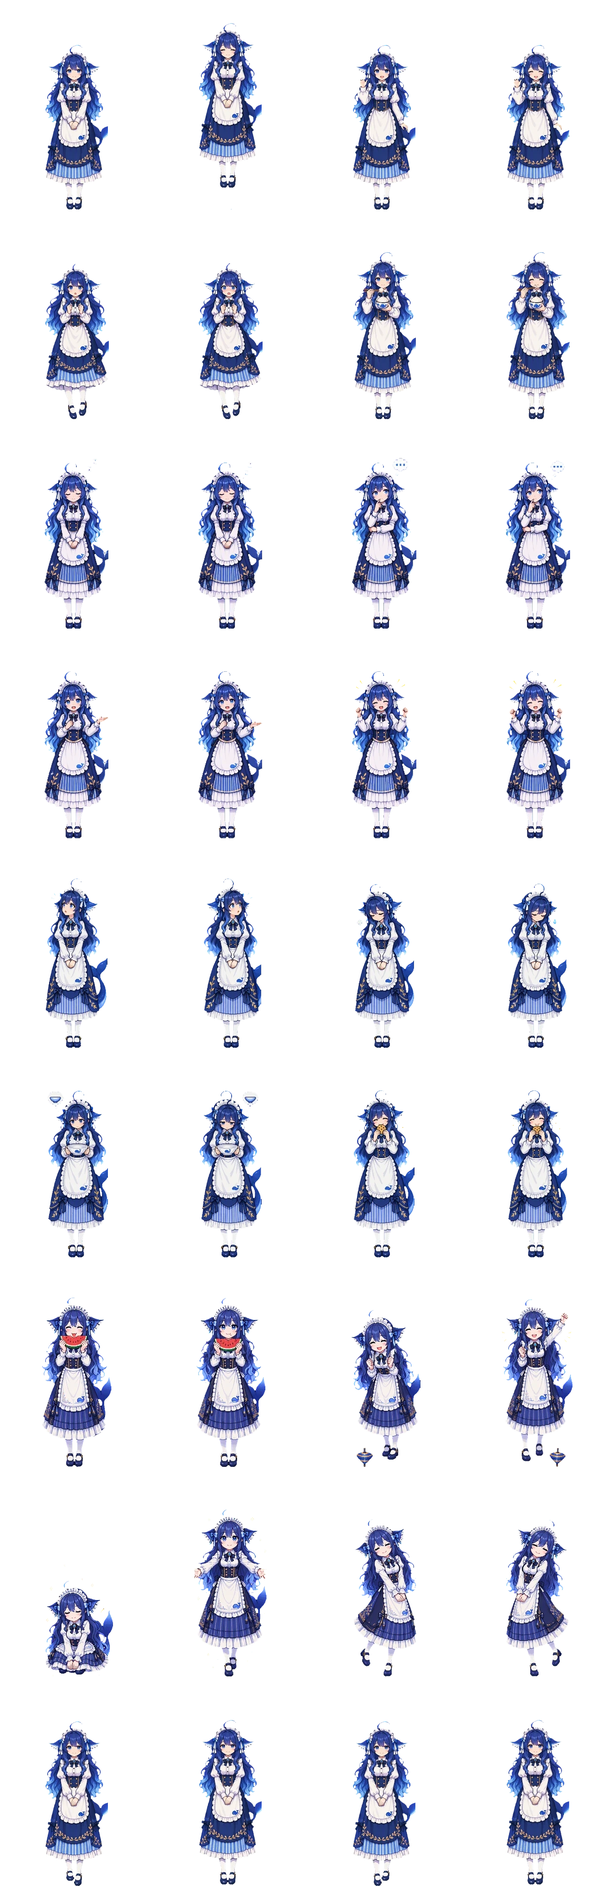
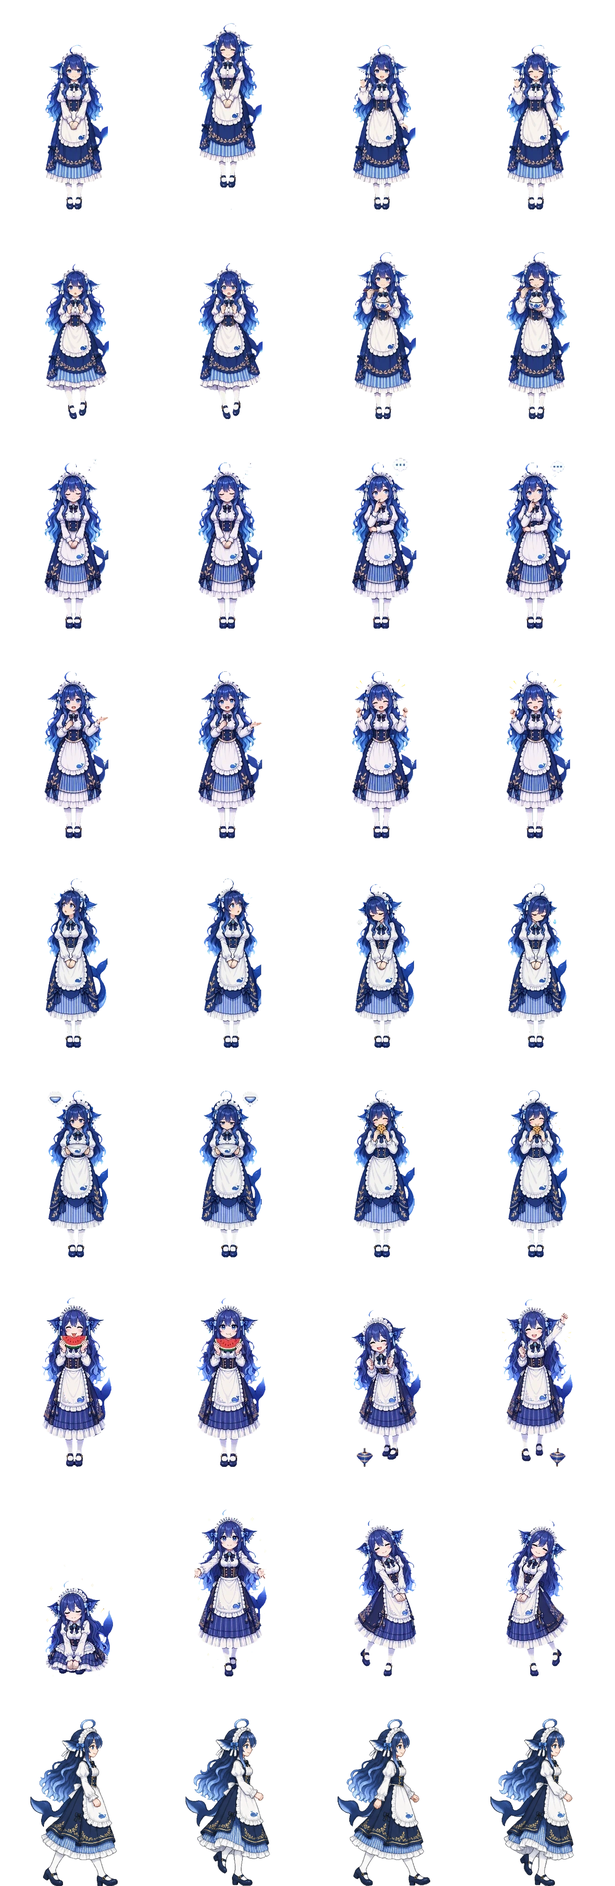
✨ feat(art): she walks in profile, the way she moves across the screen
The step cycle made from the idle art faced the viewer while the window slid
left or right. The HD packs now take a side-view walk cycle drawn for it
(model_chan_prompts.py --walk, sources in art/model-chan/walk/), facing right
and mirrored when she walks left; add_walk_frames.py --from puts the frames in
the walk row with her body centred and feet on the floor. 5 fps and a walk
speed of 110 px/s make one step about the distance the window moves, so her
feet do not skate. The classic packs keep the step in place (different art).

diff --git a/e2e/run.js b/e2e/run.js
@@ -2007,12 +2007,12 @@ async function rosterOne(ch) {
       let steps = '';
       if (ws.video) assert.equal(await clip(), 'walk');
       else {
-        // her own step cycle (scripts/art/add_walk_frames.py), not the idle art sliding along
+        // her own walk cycle (side view on the HD packs, scripts/art/add_walk_frames.py), not the idle art sliding along
         assert.equal(ws.action, 'walk');
         assert.equal(ws.exact, true);
         assert.equal(await page.textContent('#char-fx'), '');
         const seen = new Set();
-        for (let i = 0; i < 8; i++) { seen.add(await page.$eval('#pet-look canvas', (c) => c.dataset.frame.split('#')[1])); await page.waitForTimeout(70); }
+        for (let i = 0; i < 10; i++) { seen.add(await page.$eval('#pet-look canvas', (c) => c.dataset.frame.split('#')[1])); await page.waitForTimeout(100); }
         assert.ok(seen.size >= 3, `the walk frames play: ${[...seen]}`);
         steps = `, frames ${[...seen].sort().join(' ')}`;
       }
@@ -2025,6 +2025,26 @@ async function rosterOne(ch) {
       assert.equal(after.x, w.to);
       assert.ok(Math.abs(after.x - before.x) >= 60 && Math.abs(after.x - before.x) <= 240 * 2);
       return `${st}; window x ${before.x} → ${after.x} (facing ${w.facing})${steps}`;
+    }, page);
+    await step(S, 'N1b walking left: the same side view, mirrored, and the window moves left', async () => {
+      await idle();
+      await leave();
+      await page.evaluate(() => window.petFx.face('left'));
+      const before = await mainBounds();
+      const walking = page.evaluate(() => window.petFx.walk());
+      await page.waitForFunction(() => window.petFx.state().state === 'walk', null, { timeout: 3000 });
+      await page.waitForTimeout(500);
+      const ws = await fxState();
+      assert.equal(ws.facing, 'left');
+      const scale = await page.$eval(ws.video ? '#pet-body video' : '#pet-look canvas', (el) => getComputedStyle(el).scale);
+      assert.equal(scale, '-1 1', 'mirrored');
+      await page.screenshot({ path: path.join(OUT, `${S}-walk-left.png`) });
+      await walking;
+      const after = await mainBounds();
+      const w = (await page.evaluate(() => window.petFx.stats())).lastWalk;
+      assert.equal(w.facing, 'left');
+      assert.ok(after.x < before.x, `moved left: ${before.x} → ${after.x}`);
+      return `facing left, scale ${scale}${ws.video ? '' : `, action=${ws.action}`}; window x ${before.x} → ${after.x}`;
     }, page);
     await step(S, 'N2 touch: a long press on her opens the menu', async () => {
       await idle();

diff --git a/test/packs.test.js b/test/packs.test.js
@@ -40,10 +40,10 @@ test('the model-chan pixel packs are schema 2 and animate every state of the sha
     const px = packs.get(id);
     assert.equal(px.schema, 2);
     assert.equal(px.kind, 'sprites');
-    // `walk` included: a 4-frame step cycle made from her idle art (scripts/art/add_walk_frames.py)
+    // `walk` included: a 4-frame side-view walk cycle facing right (art/model-chan/walk, scripts/art/add_walk_frames.py --from)
     assert.deepEqual(Object.keys(px.actions).sort(), [...STATES].sort(), `${id} animates every state`);
     for (const st of STATES) assert.equal(resolveAction(st, (n) => !!px.actions[n]).exact, true, `${id}/${st}`);
-    assert.deepEqual(px.actions.walk, { row: 8, col: 0, frames: 4, fps: 8 }, 'a step cycle, not the idle art sliding along');
+    assert.deepEqual(px.actions.walk, { row: 8, col: 0, frames: 4, fps: 5 }, 'a side-view walk cycle, not the idle art sliding along');
     assert.deepEqual(px.frame, { width: 332, height: 452 }, 'HD frames');
     assert.equal(px.pixelated, false, 'drawn smoothed, not as blocks');
     assert.match(px.outfits.daily, /\.webp$/);

diff --git a/src/core/fx.js b/src/core/fx.js
@@ -99,7 +99,7 @@
   // ---- roaming (dsh-pet motion.ts planMove, walk.ts) ------------------------------------------
   // A walk goes 60–240 px (at 100% size) the way the pet faces, turning round when that way runs off
   // the screen; the window moves at a steady pace with a short still start and end (lead / tail).
-  const WALK = { minDist: 60, maxDist: 240, margin: 8, speed: 70, leadMs: 400, tailMs: 400 };
+  const WALK = { minDist: 60, maxDist: 240, margin: 8, speed: 110, leadMs: 400, tailMs: 400 };
   function planWalk({ x, w, area, facing = 'right', scale = 1 }, rnd = Math.random) {
     const dist = Math.round((WALK.minDist + rnd() * (WALK.maxDist - WALK.minDist)) * Math.max(0.5, scale));
     const lo = area.x + WALK.margin;

diff --git a/scripts/art/add_walk_frames.py b/scripts/art/add_walk_frames.py
@@ -1,16 +1,26 @@
-# Give a model-chan sprite pack a `walk` action: a 4-frame step cycle made from its idle art, so walking
-# is more than the window sliding the standing pose along. The legs under the hem are found in the first
+# Give a model-chan sprite pack a `walk` action, so walking is more than the window sliding the standing pose
+# along. She walks left and right across the screen, so the HD packs take a side-view walk cycle drawn for it
+# (--from, below); without one, a 4-frame step cycle in place is made from the idle art (the classic packs).
+#
+# --from <fit sheet> [--take N]: a model_chan_prompts.py --walk sheet put through slice_sheet.py --shared-box and
+# fit_cells.py --rows 2 (4 frames per row, facing right; take N = row N, default 0). Each frame stands on the
+# cell's bottom with her head and body (the top 40 % of the figure) centred, so the body glides and only the legs,
+# hair and skirt move; facing left mirrors it.
+#
+# Without --from: The legs under the hem are found in the first
 # idle frame (the transparent gap between them), and each frame lifts one leg (squashed up under the skirt,
 # so the foot leaves the ground) or brings both down with the whole figure a little higher:
 #   left foot up · both down (up a bit) · right foot up · both down (up a bit)
 # The frames go in a new row under the sheet (every outfit sheet of the pack) and pack.json gets
 # "walk": {row, col 0, frames 4, fps 8}. Running it again rebuilds that row.
 # usage: add_walk_frames.py <pack dir> [<pack dir> ...]
+#        add_walk_frames.py --from <fit sheet> [--take N] <pack dir>
 import json, os, sys
 import numpy as np
 from PIL import Image
 
 FPS = 8
+SIDE_FPS = 5  # one step (2 frames, 0.4 s) is about 44 px on screen at 100 %, the window's pace (fx.js WALK.speed 110), so the feet do not skate
 
 
 def find_legs(a):
@@ -87,7 +97,24 @@ def walk_frames(frame, smooth):
     return [compose(True, False, 0), compose(False, False, bob), compose(False, True, 0), compose(False, False, bob)], (hem, bottom, lift)
 
 
-def add_walk(pack_dir):
+def side_frames(path, take, FW, FH):
+    sheet = Image.open(path).convert('RGBA')
+    cw, ch = sheet.width // 4, sheet.height // 2
+    out = []
+    for c in range(4):
+        f = np.array(sheet.crop((c * cw, take * ch, (c + 1) * cw, (take + 1) * ch)))
+        a = f[:, :, 3] > 40
+        ys = np.where(a.any(axis=1))[0]
+        top, bottom = int(ys[0]), int(ys[-1])
+        upper = a[top:top + int((bottom - top) * 0.4)]
+        cx = np.where(upper)[1].mean()
+        frame = Image.new('RGBA', (FW, FH), (0, 0, 0, 0))
+        frame.paste(Image.fromarray(f), (int(round(FW / 2 - cx)), FH - 1 - bottom))
+        out.append(frame)
+    return out
+
+
+def add_walk(pack_dir, side=None, take=0):
     pf = os.path.join(pack_dir, 'pack.json')
     pack = json.load(open(pf))
     FW, FH = pack['frame']['width'], pack['frame']['height']
@@ -98,18 +125,27 @@ def add_walk(pack_dir):
         sheet = Image.open(path).convert('RGBA')
         rows = old['row'] if old else sheet.height // FH
         frame = sheet.crop((idle['col'] * FW, idle['row'] * FH, (idle['col'] + 1) * FW, (idle['row'] + 1) * FH))
-        frames, info = walk_frames(frame, not pack.get('pixelated'))
+        if side:
+            frames, info = side_frames(side, take, FW, FH), ('side view', os.path.basename(side), f'take {take}')
+        else:
+            frames, info = walk_frames(frame, not pack.get('pixelated'))
         out = Image.new('RGBA', (max(sheet.width, FW * 4), FH * (rows + 1)), (0, 0, 0, 0))
         out.paste(sheet.crop((0, 0, sheet.width, FH * rows)), (0, 0))
         for i, f in enumerate(frames): out.paste(f, (i * FW, rows * FH))
         if path.endswith('.webp'): out.save(path, 'WEBP', quality=92, method=6, alpha_quality=100)
         else: out.save(path, optimize=True)
-        print(f'{path}: walk row {rows}, legs rows {info[0]}-{info[1]}, lift {info[2]} px')
-    pack['actions']['walk'] = {'row': rows, 'col': 0, 'frames': 4, 'fps': FPS}
+        print(f'{path}: walk row {rows}, ' + (' '.join(info) if side else f'legs rows {info[0]}-{info[1]}, lift {info[2]} px'))
+    pack['actions']['walk'] = {'row': rows, 'col': 0, 'frames': 4, 'fps': SIDE_FPS if side else FPS}
     with open(pf, 'w') as f:
         json.dump(pack, f, ensure_ascii=False, indent=2); f.write('\n')
 
 
 if __name__ == '__main__':
-    if len(sys.argv) < 2: raise SystemExit(__doc__ or 'usage: add_walk_frames.py <pack dir> [...]')
-    for d in sys.argv[1:]: add_walk(d)
+    argv = sys.argv[1:]
+    side, take = None, 0
+    if '--from' in argv:
+        i = argv.index('--from'); side = argv[i + 1]; del argv[i:i + 2]
+    if '--take' in argv:
+        i = argv.index('--take'); take = int(argv[i + 1]); del argv[i:i + 2]
+    if not argv: raise SystemExit('usage: add_walk_frames.py <pack dir> [...] | add_walk_frames.py --from <fit sheet> [--take N] <pack dir>')
+    for d in argv: add_walk(d, side, take)

diff --git a/scripts/art/model_chan_prompts.py b/scripts/art/model_chan_prompts.py
@@ -55,8 +55,29 @@ EXTRA_ROWS = [
     "Row 4: making her entrance, rising from a crouch inside a burst of sparkles (frame 1 crouching, frame 2 standing with arms open); then a light swaying happy dance, leaning left then right (2 frames).",
 ]
 
+# --walk: one 4 x 2 sheet per character, <id>_walk: a side-view walk cycle facing right (she walks left and
+#   right across the screen; facing left mirrors it), 4 frames per row, the row drawn twice so the better take
+#   can be picked. add_walk_frames.py --from puts the 4 frames in the pack's walk row.
+WALK_ROWS = [
+    "Row 1: a side-view walk cycle in 4 frames, walking to the right: frame 1 left foot forward with the heel touching the ground, frame 2 passing pose with the right leg lifted under the skirt, "
+    "frame 3 right foot forward, frame 4 passing pose with the left leg lifted; arms swinging opposite to the legs, skirt and hair swaying with each step, body and head in profile looking to the right.",
+    "Row 2: the same 4-frame side-view walk cycle to the right again (same order, same size and position).",
+]
+SIDE = ("seen from the side in profile, facing and walking toward the RIGHT edge of the picture.")
+WALK_BG = ("IMPORTANT background: every cell and all the space around them is ONE perfectly flat solid pure {name} ({hex}) colour, "
+           "the same flat {name} everywhere: no gradient, no dark backdrop, no glow, no vignette, no floor, no shadows, no grid lines, no text, no labels.")
+
 GRID = "A grid of exactly 4 columns and 4 rows (16 cells)"
 HALF_GRID = "A grid of exactly 4 columns and 2 rows (8 cells), each cell a tall portrait-shaped box"
+
+def walk_jobs():
+    out = []
+    for cid, desc in CHARS.items():
+        key = ("green", "#00FF00") if cid == "gemini" else ("magenta", "#FF00FF")
+        style = STYLE.replace(GRID, HALF_GRID).replace("facing the viewer.", SIDE)
+        bg = WALK_BG.format(name=key[0], hex=key[1])
+        out.append({"name": f"{cid}_walk", "prompt": " ".join([bg, style, f"The character: {desc}.", SAFE, *WALK_ROWS, bg])})
+    return out
 
 def jobs(halves=False):
     out = []
@@ -73,4 +94,4 @@ def jobs(halves=False):
     return out
 
 if __name__ == '__main__':
-    print(json.dumps(jobs('--halves' in sys.argv), ensure_ascii=False))
+    print(json.dumps(walk_jobs() if '--walk' in sys.argv else jobs('--halves' in sys.argv), ensure_ascii=False))

diff --git a/docs/characters.md b/docs/characters.md
@@ -13,10 +13,10 @@
 | # | 角色 | 厂商 / 模型 | id | 主题色 | 美术 | 服饰 |
 | --- | --- | --- | --- | --- | --- | --- |
 | 1 | **大肥鱼** Dafeiyu（DeepSeek 娘 · 鲸鱼女仆） | DeepSeek / DeepSeek | `dafeiyu` | `#2C4A8A` | 像素包 `dafeiyu-pixel`（默认）；可换原版 Q 版 21 段透明视频（dsh-pet） | 1 套：招牌女仆装 |
-| 2 | **克洛蒂** Clody（Claude 娘 · 橘发菊纹） | Anthropic / Claude | `claude` | `#C4622D` | 像素包 `claude-pixel`（17 个动作，含 4 帧步行） | 1 套：橘白哥特长裙 |
-| 3 | **格萝可** Groko（Grok 娘 · 黑金吸血鬼） | xAI / Grok | `grok` | `#8E1F33` | 像素包 `grok-pixel`（17 个动作，含 4 帧步行） | 1 套：黑金哥特礼服 |
-| 4 | **杰米** Gemi（Gemini 娘 · 四角星猫耳） | Google / Gemini | `gemini` | `#7B5CD6` | 像素包 `gemini-pixel`（17 个动作，含 4 帧步行） | 1 套：星纹宽袖外披 |
-| 5 | **吉皮缇** Gippity（GPT 娘 · 白龙） | OpenAI / ChatGPT | `gpt` | `#8E7FC8` | 像素包 `gpt-pixel`（17 个动作，含 4 帧步行） | 1 套：白玫瑰立领长裙 |
+| 2 | **克洛蒂** Clody（Claude 娘 · 橘发菊纹） | Anthropic / Claude | `claude` | `#C4622D` | 像素包 `claude-pixel`（17 个动作，含 4 帧侧身步行） | 1 套：橘白哥特长裙 |
+| 3 | **格萝可** Groko（Grok 娘 · 黑金吸血鬼） | xAI / Grok | `grok` | `#8E1F33` | 像素包 `grok-pixel`（17 个动作，含 4 帧侧身步行） | 1 套：黑金哥特礼服 |
+| 4 | **杰米** Gemi（Gemini 娘 · 四角星猫耳） | Google / Gemini | `gemini` | `#7B5CD6` | 像素包 `gemini-pixel`（17 个动作，含 4 帧侧身步行） | 1 套：星纹宽袖外披 |
+| 5 | **吉皮缇** Gippity（GPT 娘 · 白龙） | OpenAI / ChatGPT | `gpt` | `#8E7FC8` | 像素包 `gpt-pixel`（17 个动作，含 4 帧侧身步行） | 1 套：白玫瑰立领长裙 |
 
 五位都是全年龄角色（`adult: false`，设定年龄 25 岁以上）：即使用户确认 18+ 并开启成人向内容，她们也只用全年龄的语气、话题和服饰。
 
@@ -38,7 +38,7 @@
 | 形象设定 | 鲸鱼娘女仆：深蓝渐变浅蓝的及腿长发、环状呆毛、蓝色大眼、带蓝色小蝴蝶结的鲸鱼鳍耳、身后分叉的鲸鱼尾鳍。懒洋洋、嘴硬、爱吃白饭，叫主人“鱼片”，口头禅“咕噜~”。像素包和其他四位一样是成人比例；社区原版的 Q 版（约 3 头身）只保留在可选的原版动画里。只有全年龄内容 |
 | 主题色 | `#2C4A8A` 深海蓝（色板 `#2C4A8A` `#FFFFFF` `#6FA8E8` `#E8D6A0`） |
 | 服饰 | 招牌女仆装：白色泡泡袖衬衫（遮肩）、蓝宝石小领结、金扣深藏青束腰、右下角绣小鲸鱼的白围裙、深藏青外层 + 蓝白竖条纹中层 + 白荷叶边的及踝长裙、白色连裤袜、深藏青玛丽珍鞋。原先的 8 套服饰立绘（针织围巾套装、休闲卫衣等）和她的形象不搭，已经移除；旧存档里穿着这些服饰的会换回招牌女仆装 |
-| 美术 | 21 段透明 webm（`src/renderer/assets/dafeiyu/`：15 个基础状态 + 被拎起 `lifted`、走路 `walk`，以及点击回应变体 `pat_shy`、`pat_pout`、`pat_tickle`、`happy_jump`），在外观里选「大肥鱼 · 原版动画」时播放；默认是像素包 `dafeiyu-pixel`（高清，每帧 332×452，16 个动作 × 2 帧 + 4 帧步行）；「切换角色 → 外观」里还可以选 v0.7.0 的「旧版像素」`dafeiyu-classic` |
+| 美术 | 21 段透明 webm（`src/renderer/assets/dafeiyu/`：15 个基础状态 + 被拎起 `lifted`、走路 `walk`，以及点击回应变体 `pat_shy`、`pat_pout`、`pat_tickle`、`happy_jump`），在外观里选「大肥鱼 · 原版动画」时播放；默认是像素包 `dafeiyu-pixel`（高清，每帧 332×452，16 个动作 × 2 帧 + 4 帧侧身步行）；「切换角色 → 外观」里还可以选 v0.7.0 的「旧版像素」`dafeiyu-classic` |
 | 梗图 / 朗读 | 9 张梗图（dsh-pet）；朗读音调 1.35、语速 1.0 |
 | 素材来源 / 生成方式 | 动画来自 [PC2005-cloud/dsh-pet](https://github.com/PC2005-cloud/dsh-pet)；形象是 DeepSeek 吉祥物的社区二创：原型「溟月」B站 @上善无形，女仆鲸鱼娘设计 B站 @ZipZipPipe，设定参考 ai-chan-sheets `03_DeepSeek娘_鲸鱼娘`。像素版由 **GPT Image 2.5**（`gpt-image-2.5-sunburst`，经 LobeHub）按文字提示词重画，没有逐帧描摹视频 |
 | 许可 | 动画：dsh-pet 素材可开源使用、**禁止商用**；形象 **CC BY-NC-SA 4.0**（`src/renderer/assets/dafeiyu/NOTICE.md`）。像素包同样 **CC BY-NC-SA 4.0** |
@@ -57,7 +57,7 @@
 | 形象设定 | 成年比例：橘色过膝长发、发梢螺旋卷，菊花发饰配黑缎蝴蝶结，琥珀金垂眼。安静、温和、认真，爱读书和写东西，不确定时直说。口头禅“嗯，让我想想。” |
 | 主题色 | `#C4622D` 陶土橘（色板 `#C4622D` `#F4EAD8` `#1E1A18` `#C9A24A`） |
 | 服饰 | 橘白哥特长裙：奶油白高领衬衫、短披肩和橘红长裙 |
-| 美术 | 像素包 `claude-pixel`：schema 2 高清精灵图 1328×4068 WebP（每帧 332×452，平滑绘制），16 个动作 × 2 帧 + 4 帧步行 |
+| 美术 | 像素包 `claude-pixel`：schema 2 高清精灵图 1328×4068 WebP（每帧 332×452，平滑绘制），16 个动作 × 2 帧 + 4 帧侧身步行 |
 | 梗图 / 朗读 | 4 张梗图；朗读音调 1.0、语速 0.92 |
 | 素材来源 / 生成方式 | 身份锚点（发型、配色、服饰、标志物）取自 [lmy414/ai-chan-sheets](https://github.com/lmy414/ai-chan-sheets) `设定图/11_Claude娘_Anthropic`；原设 ZipZipPipe《AI娘化》p02（[Pixiv 148186519](https://www.pixiv.net/artworks/148186519)，用户素材 [file_5SAeAA60gpeZ](https://app.lobehub.com/f/file_5SAeAA60gpeZ)）。精灵图由 **GPT Image 2.5**（`gpt-image-2.5-sunburst`）按文字提示词生成，`scripts/art/` 像素化 |
 | 许可 | **CC BY-NC-SA 4.0**：署名 ZipZipPipe（原设）、lmy414（设定）、rdmclin2（像素化），禁止商用，改编须同协议 |
@@ -76,7 +76,7 @@
 | 形象设定 | 成年比例：香槟金超长双马尾、黑金小尖冠、蓝宝石眼、精灵尖耳和小尖牙。机灵爱吐槽的友善夜行吸血鬼，嘴上不饶人但心软。口头禅“哈！有意思。” |
 | 主题色 | `#8E1F33` 酒红（色板 `#8E1F33` `#16141A` `#C9A24A` `#F1E2B8`） |
 | 服饰 | 黑金哥特礼服：高领黑色礼服、酒红内衬立领、小尖冠、不透明黑色连裤袜 |
-| 美术 | 像素包 `grok-pixel`：高清精灵图 1328×4068 WebP（每帧 332×452，平滑绘制），16 个动作 × 2 帧 + 4 帧步行 |
+| 美术 | 像素包 `grok-pixel`：高清精灵图 1328×4068 WebP（每帧 332×452，平滑绘制），16 个动作 × 2 帧 + 4 帧侧身步行 |
 | 梗图 / 朗读 | 4 张梗图；朗读音调 1.15、语速 1.12 |
 | 素材来源 / 生成方式 | 设定取自 ai-chan-sheets `设定图/09_Grok娘_xAI`，原设 ZipZipPipe《AI娘化》p07。把原设的露肩礼服、透肉连裤袜和腿环改成高领礼服和不透明连裤袜，不画 X 战斧和 X 字样。**GPT Image 2.5** 生成后像素化 |
 | 许可 | **CC BY-NC-SA 4.0**，署名同上 |
@@ -95,7 +95,7 @@
 | 形象设定 | 成年比例：薰衣草紫过膝长发、卷曲呆毛，紫外粉内的猫耳和蓬松猫尾，异色瞳（品红 / 金），深色发带配四角星发饰。活泼好奇、反应快。口头禅“让我看看！” |
 | 主题色 | `#7B5CD6` 薰衣草紫（色板 `#7B5CD6` `#B9A3F0` `#1E1F4B` `#FFFFFF`） |
 | 服饰 | 星纹宽袖外披：深藏青高领上衣、白底宽袖外披、四角星吊坠飘带和白色荷叶边长裙 |
-| 美术 | 像素包 `gemini-pixel`：高清精灵图 1328×4068 WebP（每帧 332×452，平滑绘制），16 个动作 × 2 帧 + 4 帧步行 |
+| 美术 | 像素包 `gemini-pixel`：高清精灵图 1328×4068 WebP（每帧 332×452，平滑绘制），16 个动作 × 2 帧 + 4 帧侧身步行 |
 | 梗图 / 朗读 | 4 张梗图；朗读音调 1.25、语速 1.08 |
 | 素材来源 / 生成方式 | 设定取自 ai-chan-sheets `设定图/10_Gemini娘`，原设 ZipZipPipe《AI娘化》p04。把原设的露脐上衣、短裤和腿环改成高领上衣、及踝长裙和不透明白色连裤袜；四角星只作纹样，不画 Google 标志或文字。**GPT Image 2.5** 生成后像素化（`fit_cells.py --keep-violet` 保住紫色发色） |
 | 许可 | **CC BY-NC-SA 4.0**，署名同上 |
@@ -114,7 +114,7 @@
 | 形象设定 | 成年比例：纯白及踝超长波浪发、白色环纹龙角、精灵尖耳配淡紫水晶耳坠、淡紫垂眼，白玫瑰绳结发饰；收拢的淡紫小龙翼和白色龙尾。温柔耐心、有问必答，爱把事情列成要点，会拿“重新生成”和“知识截止日期”自嘲。口头禅“好的！很乐意帮忙～” |
 | 主题色 | `#8E7FC8` 淡薰衣草（色板 `#8E7FC8` `#FFFFFF` `#D9D2EE` `#B8BCC6`） |
 | 服饰 | 白玫瑰立领长裙：白色中式立领长袖长裙、宽大荷叶边水袖、银链淡紫水晶腰饰、白玫瑰绳结和不透明的波浪荷叶边长罩衣 |
-| 美术 | 像素包 `gpt-pixel`：高清精灵图 1328×4068 WebP（每帧 332×452，平滑绘制），16 个动作 × 2 帧 + 4 帧步行 |
+| 美术 | 像素包 `gpt-pixel`：高清精灵图 1328×4068 WebP（每帧 332×452，平滑绘制），16 个动作 × 2 帧 + 4 帧侧身步行 |
 | 梗图 / 朗读 | 4 张梗图（很乐意帮忙！、以下是要点、让我重新生成、知识截止到……）；朗读音调 1.1、语速 1.0 |
 | 素材来源 / 生成方式 | 设定取自 ai-chan-sheets `设定图/02_GPT娘_白龙娘`，原设 ZipZipPipe《AI娘化》p03。把原设的露肩、高开衩、腿环和半透明薄纱罩衣改成长袖、闭合的及踝长裙和不透明长罩衣，龙翼画小并收拢；白玫瑰绳结只作饰物，不画 OpenAI 标志或文字。**GPT Image 2.5** 生成后像素化（`slice_sheet.py --octree` 保住白色角色的配色） |
 | 许可 | **CC BY-NC-SA 4.0**，署名同上 |

diff --git a/docs/pet-packs.md b/docs/pet-packs.md
@@ -61,10 +61,10 @@ my-grok/
 | `hatch` | 唤醒、切换到这个角色 | `happy` |
 | `evolve` | 关系升级 | `happy` |
 | `lifted` | 被拖着走、被甩出去的空中 | `pat` |
-| `walk` | 自己走动（窗口沿屏幕平移的同时播放） | `idle`，再加轻微的跳动 |
+| `walk` | 自己走动（窗口沿屏幕左右平移的同时播放；画成朝右的侧面，朝左走时应用会镜像） | `idle`，再加轻微的跳动 |
 
 - **转身**（自播链里的左右镜像）由应用用 CSS 做，不需要单独的图；画了文字或标志、镜像会反字的状态，在角色的 character.json 里列进 `fx.noMirror`。
-- **精灵图排布**：每一帧大小相同（`frame`），第 `row` 行、从第 `col` 列起连续 `frames` 帧。所有服饰的精灵图必须使用同一种排布。内置像素包是 4 列 × 9 行（1328×4068，每帧 332×452，WebP，平滑绘制），每个状态 2 帧，第 9 行是 4 帧的 `walk` 步行循环。
+- **精灵图排布**：每一帧大小相同（`frame`），第 `row` 行、从第 `col` 列起连续 `frames` 帧。所有服饰的精灵图必须使用同一种排布。内置像素包是 4 列 × 9 行（1328×4068，每帧 332×452，WebP，平滑绘制），每个状态 2 帧，第 9 行是 4 帧的 `walk` 侧身步行循环（朝右，5fps）。
 - `pictures` 类型不需要 `frame` 和 `actions`，动作用轻微的摆动表现。
 - **schema 1**：旧格式的 8 个动作名 `idle / wave / lifted / eat / sleep / think / talk / cheer` 仍然可用，应用把 `pat` 映射到 `wave`，`happy`、`play`、`hatch`、`evolve` 映射到 `cheer`，三种吃饭映射到 `eat`。schema 1 包里不能写 schema 2 的新动作名。
 
@@ -79,6 +79,6 @@ my-grok/
 1. `python3 scripts/art/model_chan_prompts.py` 输出每个角色两条提示词（`<id>_base`、`<id>_extra`，各是 4×4 宫格：8 个状态各 2 帧，纯品红背景）。为了分辨率，每条再按行拆成两半（`_a` 是第 1–2 行，`_b` 是第 3–4 行），每半是 4×2 宫格，详见 [art/model-chan/README.md](../art/model-chan/README.md)。
 2. 用 `lh generate image -m gpt-image-2.5-sunburst -p lobehub "<提示词>"` 生成，每条一张（模型默认画布约 1024×1536，指定尺寸会报错）。
 3. `scripts/art/slice_sheet.py <生成图> <输出.png> 4 2 360 --max 324x444 --smooth`：抠掉背景（品红底或透明底都行）、去掉相邻格子带过来的碎像素，缩成真正的像素画；`scripts/art/fit_cells.py <输入> <输出> --rows 2` 把每格放进 332×452（参数 `332 452`）。
-4. `scripts/art/build_model_chan_pack.py <base_a> <base_b> <extra_a> <extra_b> <角色 id> src/renderer/packs/<角色 id>-pixel --hd`：四张拼成一张 1328×3616 的 WebP（`--hd`：全彩、`pixelated: false`），写出 schema 2 的 `pack.json`；`scripts/art/add_walk_frames.py src/renderer/packs/<角色 id>-pixel` 用待机帧做出 4 帧步行循环，加在第 9 行；`scripts/art/check_model_chan.py` 检查尺寸和每一帧都有内容。
+4. `scripts/art/build_model_chan_pack.py <base_a> <base_b> <extra_a> <extra_b> <角色 id> src/renderer/packs/<角色 id>-pixel --hd`：四张拼成一张 1328×3616 的 WebP（`--hd`：全彩、`pixelated: false`），写出 schema 2 的 `pack.json`；`scripts/art/add_walk_frames.py --from art/model-chan/walk/<角色 id>_walk.png src/renderer/packs/<角色 id>-pixel` 把侧面步行循环（`model_chan_prompts.py --walk` 生成）加在第 9 行；`scripts/art/check_model_chan.py` 检查尺寸和每一帧都有内容。
 
 新角色还需要一份 `src/characters/<id>.json`（字段见现有三个文件；`npm test` 会校验）。然后在应用里导入这个目录，或者打成 `.zip` 发给别人。
